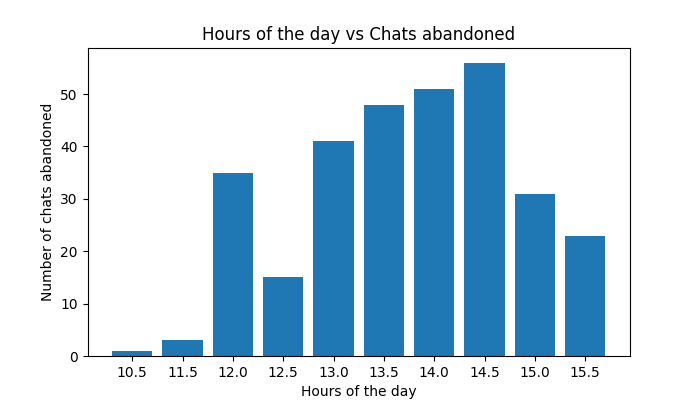
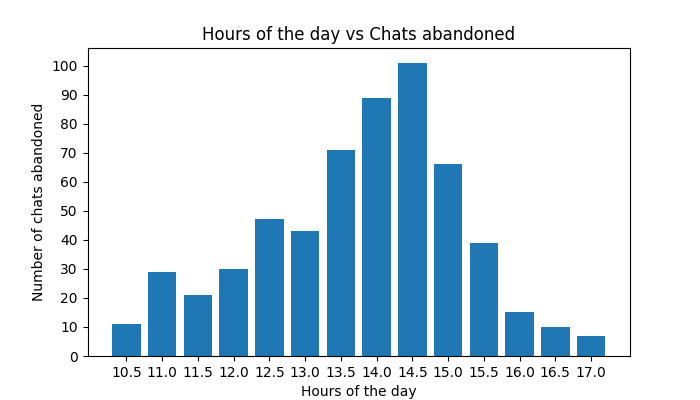
fixed all graphs

diff --git a/callcenter/CallCenter.py b/callcenter/CallCenter.py
@@ -57,7 +57,7 @@ class CallCenter:
         self.n_rest_in_queue = 0
         self.rest_call_proportion = 0.03  # 3% of all calls belong to restaurants
         self.weather = self.user_parameters.get("Weather").lower()
-
+        self.service_agents = []
         self.n_chat_agents = int(self.user_parameters.get("Number of Chat Agents"))
         self.n_call_agents = int(self.user_parameters.get("Number of Call Agents"))
         self.starting_number_of_agents = self.n_chat_agents + self.n_call_agents
@@ -77,9 +77,10 @@ class CallCenter:
                 self.service_agents.append(CustomerServiceAgent(i, self.chat_queue, self.curr_time))
         else:  # Regular and PriorityQueue
             # i % 2 condition splits half the agents for chat duty other half for calls
-            self.service_agents = [
-                CustomerServiceAgent(i, self.call_queue if i % 2 == 0 else self.chat_queue, self.curr_time) for i in
-                range(self.starting_number_of_agents)]
+            for i in range(self.n_call_agents):
+                self.service_agents.append(CustomerServiceAgent(i, self.call_queue, self.curr_time))
+            for i in range(self.n_call_agents, self.n_call_agents + self.n_chat_agents):
+                self.service_agents.append(CustomerServiceAgent(i, self.chat_queue, self.curr_time))
 
         self.n_end_clients = 100_0000
         self.n_employees_by_sector = {"High-Tech": 800_000,

diff --git a/callcenter/Graphs.py b/callcenter/Graphs.py
@@ -67,9 +67,9 @@ class Graphs:
     def plot_system_hist_calls(clients, hours):
         # bins = np.linspace(8,23, 160)
         fig, ax = plt.subplots(figsize=(7, 4))
-        ax.set_title('Hours of the day vs Calls in the system')
+        ax.set_title('Hours of the day vs Calls in service')
         ax.set_xlabel('Hours of the day')
-        ax.set_ylabel('Number of calls in the system')
+        ax.set_ylabel('Number of calls in service')
         ax.set_yticks(ticks=np.arange(0, 100, 2))
         plt.stairs(clients, hours)
         plt.savefig('../flask/static/images/calls.png')
@@ -79,9 +79,9 @@ class Graphs:
     @staticmethod
     def plot_system_hist_chats(clients, hours):
         fig, ax = plt.subplots(figsize=(7, 4))
-        ax.set_title('Hours of the day vs Chats in the system')
+        ax.set_title('Hours of the day vs Chats in service')
         ax.set_xlabel('Hours of the day')
-        ax.set_ylabel('Number of chats in the system')
+        ax.set_ylabel('Number of chats in service')
         ax.set_yticks(ticks=np.arange(0, 100, 5))
         plt.stairs(clients, hours)
         plt.savefig('../flask/static/images/chats.png')
